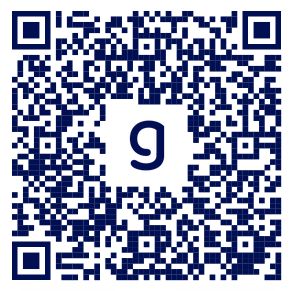
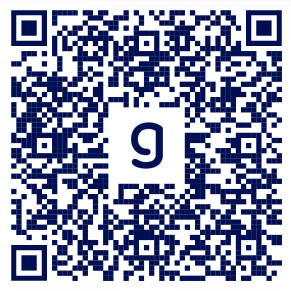
QR als url

diff --git a/ImplementationGuide/markdown/Anfrage-App.md b/ImplementationGuide/markdown/Anfrage-App.md
@@ -20,17 +20,22 @@ Diese werden _app-intern_ an das Backend des Versicherungsunternehmens (bzw. der
 Das Backend des Versicherungsunternehmens kann die übergebene KIM-Adresse mit den Daten im VZD verifizieren und an die App übertragen.
 Im Sinne eines geführten Check-Ins in die Praxis können dem Patienten die aus dem VZD anhand der KIM-Adresse gefunden Praxis-Stammdaten (Name, Adresse) zur eigenen Verifikation (_"Ja korrekt, in dieser Praxis möchte ich behandelt werden"_) angezeigt werden. Ebenso kann dazu die Einwilligung in die Übermittlung der eEB-Daten in genau diese Praxis durch den Patienten eingeholt werden.
 
-Für den Start des UseCases zum "Online Check-In" in der Praxis wird lediglich die KIM-Adresse benötigt, an welche die Praxis die Daten über den Patienten gesendet bekommen möchte. Der Aufbau des QR-Codes gestaltet sich daher sehr schlank.
+Für den Start des UseCases zum "Online Check-In" in der Praxis wird lediglich die KIM-Adresse benötigt, an welche die Praxis die Daten über den Patienten gesendet bekommen möchte. Der Aufbau des QR-Codes gestaltet sich daher sehr schlank. Basis ist eine `URL`, die als Landing-Page Hinweise geben kann, wenn Versicherte die jeweilige App ihrer Krankenversicherung noch nicht installiert haben. Ist sie installiert, kann sie beim Abscannen mit der Kamera-App durch das Betriebsystem (z.B. Android, iOS) direkt geöffnet werden.
 
 ```json
-{
-  "mail": "<KIM-Adresse>"
-}
+  https://check-in.gematik.de?mail=<KIM-Adresse>
 ```
 
 - `mail` benennt die KIM-Adresse, an die die Praxis eine Ersatzbescheinigung bzw. "Online Check-In" gesendet haben möchte. Die Daten der Praxis werden dem Patienten zur Verifikation aus dem VZD über das Backend der App bereitgestellt.
 
-Im Folgenden ist ein Beispiel QR-Code für die KIM-Adresse einer fiktiven Praxis _Dr. Baldgesund_ dargestellt. Dr. Baldgesund erhält die KIM-Adresse `praxis-dr-baldgesund@kim-dienstleister.kim.telematik` über die Beantragung eines Kontos bei einem KIM-Anbieter.
+> **Hinweis**
+>
+> Die Basis-URL befindet sich noch in Abstimmung.
+> Mehrere (wenige) URLs sind realisierbar, wichtig ist die Hinterlegung technsicher Informationen für die mobilen Betriebsysteme durch die gematik, siehe auch
+> https://developer.android.com/training/app-links/verify-android-applinks#multi-app-same-domain und
+> https://developer.apple.com/documentation/xcode/allowing-apps-and-websites-to-link-to-your-content
+
+Im Folgenden ist ein Beispiel QR-Code für die KIM-Adresse (*URL-Safe codiert*) einer fiktiven Praxis _Dr. Baldgesund_ dargestellt. Dr. Baldgesund erhält die KIM-Adresse `praxis-dr-baldgesund@kim-dienstleister.kim.telematik` über die Beantragung eines Kontos bei einem KIM-Anbieter.
 
 <!--- generated at https://gchq.github.io/CyberChef -->
 {{render:ImplementationGuide-images-qr-sample}}
